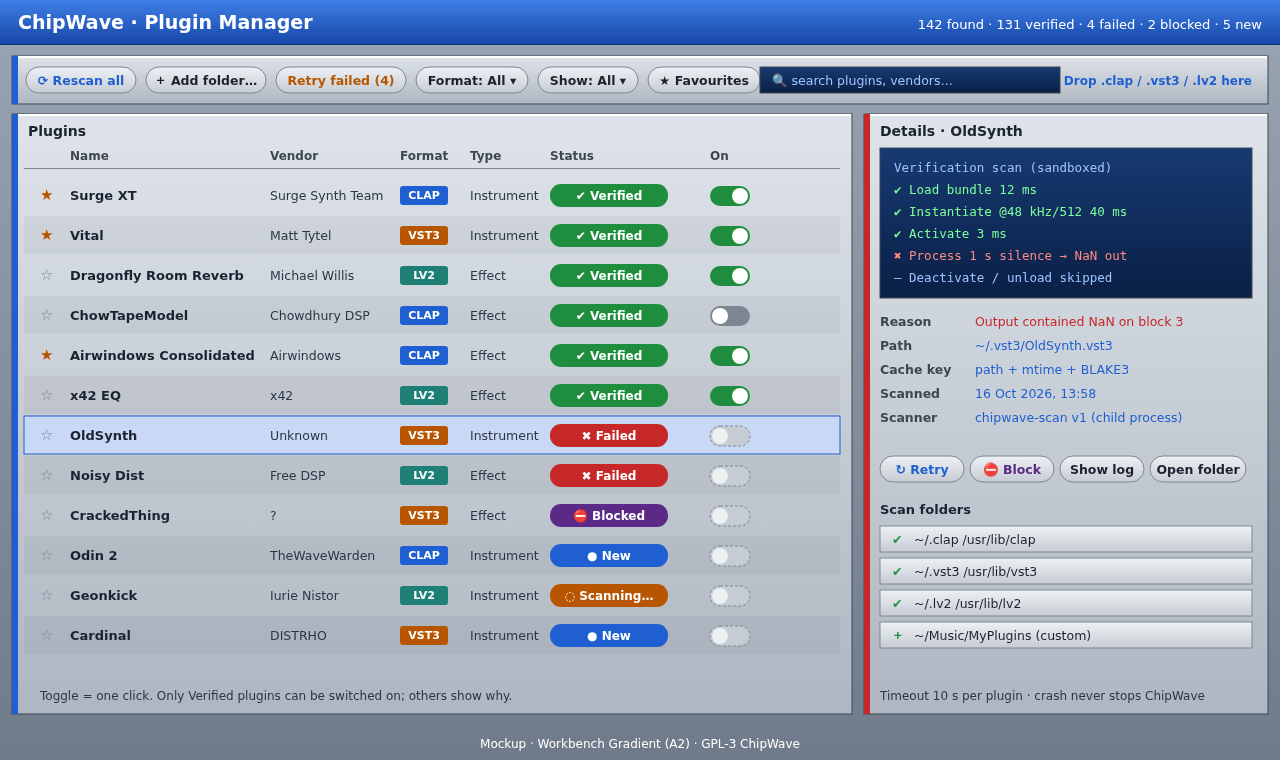
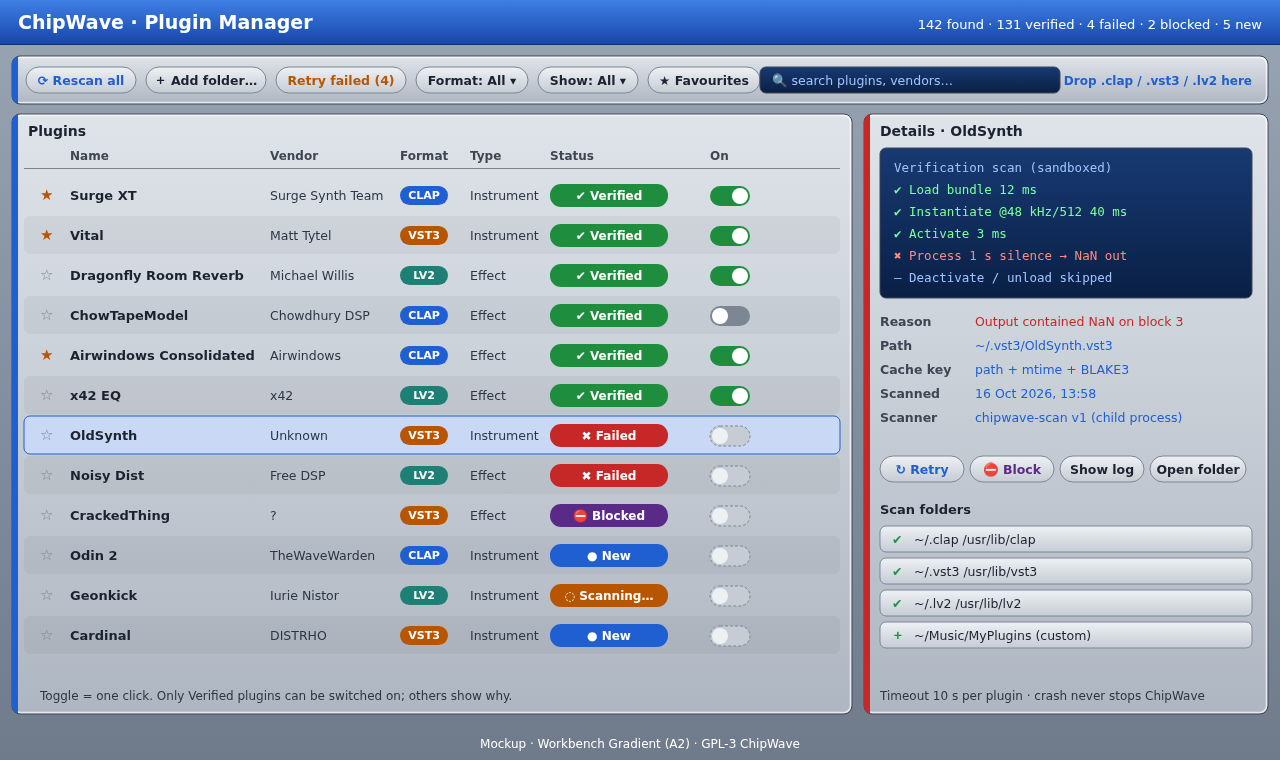
Add Auto Arrange (fill to length) + Fun & Fast design with mockup; corner-radius rules; rounded plugin manager mockup

Changed region(s): [[0.9688, 0.1211, 1.0, 0.1513]]

diff --git a/docs/AUTO_ARRANGE.md b/docs/AUTO_ARRANGE.md
@@ -1,0 +1,116 @@
+# Auto Arrange: Fill to length, plus Fun & Fast
+
+Del's ask: *"fun to use, easy to get results out quick into a working track… if the user has created an intro, a chorus etc, an option to fill to a certain time length with some music computational variations."*
+
+![Auto arrange mockup](mockups/auto_arrange.png) (SVG: [`mockups/auto_arrange.svg`](mockups/auto_arrange.svg))
+
+Builds on the arranger data model in [ARRANGER.md](ARRANGER.md): blocks → play sequences → section list. Auto Arrange only *proposes* a new section list plus derived blocks; nothing is changed until you press Accept.
+
+## 1. Workflow
+1. **Tag blocks with roles:** Intro, Verse, Chorus, Bridge, Breakdown, Outro or Fill. Right-click a block, or press `1`–`7` in the arranger. Untagged blocks are ignored. One role can hold several blocks (Chorus A/B).
+2. **Pick a target length** (e.g. 3:30) and a **snap** setting (1 / 4 / 8 / 16 bars). Bar length is computed from BPM, speed and lines-per-beat (`bar_secs = beats_per_bar × 60 / bpm`). The generator works in whole bars and reports the real result, e.g. *3:29.1 (122 bars)*. Tempo changes inside blocks are handled by the same pre-scan the ruler uses.
+3. **Pick a style template:** Pop, Chiptune demo-scene, Club build/drop or Ambient.
+4. Press **Generate**. Ghost blocks appear in the arranger. **▶ Preview** plays them, **🎲 Reroll** tries a new seed, **🔒 Lock** keeps a section on reroll, and **Accept** or **Undo** commits or discards the proposal (one undo step).
+
+## 2. Style templates
+A template is a small TOML grammar plus a default energy curve, user-editable in `~/.config/chipwave/arrange/`.
+
+| Style | Skeleton | Typical lengths | Variations favoured |
+|---|---|---|---|
+| Pop | I V C V C B C C O | 4–8 bar intro, 16-bar verse/chorus | Key change before final chorus, drum fill, thin verse 2 |
+| Chiptune demo-scene | I V C V′ C′ B F C+ O | 8-bar units | Arpeggio variants, echo via tracker effects, octave shift, fast fills |
+| Club build/drop | I Bd(build) C(drop) Bk V Bd C O | 16/32 bars | Filter sweep, density increase into the drop, mute kick in the breakdown |
+| Ambient | I V B V′ O, long repeats | 16–32 bars | Density reduce, slow filter, ritardando outro |
+
+```toml
+# pop.toml
+[grammar]
+start = ["Intro"]
+next.Intro   = [["Verse", 1.0]]
+next.Verse   = [["Chorus", 0.8], ["Verse", 0.2]]
+next.Chorus  = [["Verse", 0.5], ["Bridge", 0.3], ["Outro", 0.2]]
+next.Bridge  = [["Chorus", 1.0]]
+end = ["Outro"]
+max_repeat = 2
+energy = [[0.0,0.2],[0.3,0.6],[0.5,0.5],[0.75,1.0],[1.0,0.1]]
+```
+
+If a role is missing (no Bridge tagged, say), the generator skips it or makes a derived stand-in (a thinned Verse) and says so in the result panel.
+
+## 3. Generator (deterministic and seeded)
+Same blocks + settings + seed always give the same result. It uses a `rand_chacha::ChaCha8Rng` seeded from the 64-bit seed shown in the UI.
+
+```text
+fn fill_to_length(blocks, template, target_bars, energy, seed, locks):
+    rng = ChaCha8(seed)
+    best = None
+    repeat N=200 candidates:
+        path = walk template grammar from start, weighted by rng, keeping locked sections fixed
+        lengths = for each section: base bars of its tagged block(s)
+        # fit: adjust repeats/trims until total == target (within snap)
+        while total(path) < target: grow the section with the highest (energy-fit gain / bars), repeat ≤ max_repeat, else insert a Fill or an extra Verse→Chorus pair
+        while total(path) > target: shrink: drop a repeat, then trim to half length (only if the block length divides), then remove the optional Bridge
+        score = |total-target| * 10 + energy_mismatch(path, energy) + monotony_penalty(path) + template_deviation(path)
+        keep best by score
+    assign variations to best (§4) driven by energy delta and rng
+    return Proposal { sections, derived_blocks }
+```
+
+- **Structure graph:** the grammar is a weighted Markov graph over roles. Locks are fixed nodes the walk must pass through in place.
+- **Fitting by repeats:** exact length comes from repeat counts and Fill blocks (1, 2 or 4 bars) as padding. If no exact fit exists at the chosen snap, it picks the nearest result and shows the difference (e.g. "−0.9 s").
+- Cost: 200 candidates × ~20 sections is microseconds, so preview is instant and runs off the audio thread.
+
+## 4. Variation transforms (non-destructive)
+A **derived block** stores `source: BlockId` plus an ordered list of transforms. It's rendered to real pattern data on demand and cached. Edit the source and every variant updates. Accept keeps them as derived blocks; "Bake" turns one into an ordinary block. MMD export always bakes them.
+
+```rust
+struct DerivedBlock { source: BlockId, ops: Vec<VarOp>, seed: u64 }
+enum VarOp {
+    Transpose(i8), OctaveShift { channels: ChanMask, oct: i8 },
+    DrumFillLastBar { channel: u8, density: f32 }, MuteChannels(ChanMask), ThinChannels(ChanMask, f32),
+    Arpeggiate { channel: u8, pattern: ArpShape }, ChordInvert { channels: ChanMask, steps: i8 },
+    Swing(f32), Density(f32),  // <1 removes weak-beat notes, >1 adds ghost notes on the scale
+    FilterSweep { from_hz: f32, to_hz: f32, curve: Curve }, // writes synth automation lane
+    EchoFx { channel: u8, delay_lines: u8, feedback: u8 },  // uses tracker volume/delay commands in free channels
+    CallResponse { call: ChanMask, answer: ChanMask },      // copies bar 1–2 phrase to answer channel in bars 3–4, transposed by a scale step
+    KeyChange(i8), FadeOut { bars: u8 }, Ritardando { bars: u8, end_bpm_pct: u8 },
+}
+```
+
+| Transform | How (implementable) | Default use |
+|---|---|---|
+| Transpose / octave shift | Shift note numbers; clamp to the sample's range; skip drum channels (tagged) | Verse 2, final chorus |
+| Drum fill on last bar | Replace the last bar of the drum channel with a template fill (rolls, toms) seeded by rng | Before every Chorus |
+| Mute / thin channels | Clear a channel, or drop notes with probability p (off-beats first) | Intro, breakdown, verse 1 |
+| Arpeggio / chord inversion | Detect chord notes per row across channels; rotate the inversion or emit `0xy` arpeggio commands | Chiptune repeats |
+| Swing | Delay odd 16ths via delay command `Fxx`/note-delay | Style-dependent |
+| Density ± | Remove weak-beat notes or add passing notes from the detected scale (simple Krumhansl key profile) | Builds and ambient |
+| Filter sweep | Automation lane on the synth cutoff, start→end over the block | Club builds |
+| Tracker echo | Echo note copies at lower volume in a free channel, N rows later | Demo-scene |
+| Call and response | Copy the phrase from channel A to channel B a bar later, shifted by a scale degree | Bridge |
+| Key change | +1 or +2 semitones from the block before the final chorus to the end | Pop |
+| Outro fade / ritardando | Volume ramp over the last N bars; tempo commands lowering BPM by up to 20 % | Outro |
+
+Variation intensity scales with the **Variation %** knob. Transforms are chosen where the energy curve rises (add density/fills/sweeps) or falls (thin/mute/fade).
+
+## 5. Energy curve UI
+- A CRT display with draggable square handles (A2 style), from 0 to 1 over song time. Double-click adds a point; right-click removes it.
+- Each style has a default curve. Dragging re-scores live (debounced 100 ms) and updates the ghost blocks.
+- Section energy is estimated from note density, active channels and average volume, so the generator can match sections to the curve.
+
+## 6. Arranger integration
+- **Ghost blocks:** translucent fill with a dashed outline; derived ones are labelled *derived* with a ′ mark. Hovering shows the transform list.
+- **Time display:** live total versus target in the header, plus a time ruler.
+- **Live preview:** loops the ghost song from the cursor. Click a ghost block to audition just that one.
+- Keys: `G` generate, `R` reroll, `L` lock, `Enter` accept, `Esc` / `Ctrl+Z` undo.
+
+## 7. Fun & fast
+- **Quick-start templates:** File → New from template (Chiptune, Pop, Club, Ambient, Amiga MOD 4-channel). Each comes with a tempo, instrument slots filled from the bundled sample pack, a drum block and an empty tagged Verse/Chorus.
+- **First track in 5 minutes:** a skippable onboarding overlay. (1) Pick a template. (2) Type a melody in the Chorus block (keyboard as piano, step highlighted). (3) Press 🎲 for a bass line from the chord guess. (4) Fill to length 2:30. (5) Export. Progress dots, no account, never pops up again once dismissed.
+- **Randomise patch:** 🎲 on the sound designer randomises within musical limits (cutoff 200 Hz–8 kHz, envelope sane, levels capped) and keeps a history so you can step back.
+- **Happy-accident dice:** in any block, randomly applies one transform from §4 to the selection (also seeded and undoable), e.g. "inverted chords on ch 2".
+- **Instant export:** `Ctrl+E` renders WAV/MP3 with the last settings ([EXPORT.md](EXPORT.md)) and shows the file in a toast with "Open folder".
+
+## 8. Roadmap
+- **Phase 2:** roles, generator, Pop/Chiptune templates, transforms Transpose/Fill/Mute/Thin/KeyChange/Fade, ghost preview and accept/undo, quick-start templates, instant export.
+- **Phase 2.5:** energy curve editing, the remaining transforms, Club/Ambient templates, onboarding, dice.

diff --git a/README.md b/README.md
@@ -24,7 +24,7 @@ A modern music tracker inspired by **OctaMED** and the Commodore **Amiga**, sist
 3. **Phase 2:** OctaMED synth and hybrid sounds, more filter models and FX, wavetables, full mod matrix, sample editor, MIDI output + clock sync, CLAP/VST3 plugin hosting, MOD/XM export, Amiga-mode retro look
 4. **Phase 3:** Rhai scripting/plugins, XM/IT import, arranger variation lanes, ChipWave itself as a CLAP/VST3 plugin (nih-plug)
 
-See [docs/OCTAMED_SPEC.md](docs/OCTAMED_SPEC.md) for the full OctaMED feature blueprint, [docs/SOUND_DESIGN.md](docs/SOUND_DESIGN.md) for the synth and effects, [docs/ARRANGER.md](docs/ARRANGER.md) for the timeline, [docs/EXPORT.md](docs/EXPORT.md) for WAV/MP3 export, [docs/FILE_FORMAT.md](docs/FILE_FORMAT.md) for the `.cwt` song format, and [docs/UI_SCALING.md](docs/UI_SCALING.md) for screen scaling and layouts, [docs/SAMPLES.md](docs/SAMPLES.md) for the instrument list and importer, [docs/MIDI_VST.md](docs/MIDI_VST.md) for MIDI and plugins, [docs/PLUGIN_MANAGER.md](docs/PLUGIN_MANAGER.md) for the plugin manager (scan, verify, activate), and [docs/DESIGN_LANGUAGE.md](docs/DESIGN_LANGUAGE.md) for ChipWave's "Wave Cartridge" visual identity.
+See [docs/OCTAMED_SPEC.md](docs/OCTAMED_SPEC.md) for the full OctaMED feature blueprint, [docs/SOUND_DESIGN.md](docs/SOUND_DESIGN.md) for the synth and effects, [docs/ARRANGER.md](docs/ARRANGER.md) for the timeline, [docs/AUTO_ARRANGE.md](docs/AUTO_ARRANGE.md) for fill-to-length auto arrange and quick-start fun features, [docs/EXPORT.md](docs/EXPORT.md) for WAV/MP3 export, [docs/FILE_FORMAT.md](docs/FILE_FORMAT.md) for the `.cwt` song format, and [docs/UI_SCALING.md](docs/UI_SCALING.md) for screen scaling and layouts, [docs/SAMPLES.md](docs/SAMPLES.md) for the instrument list and importer, [docs/MIDI_VST.md](docs/MIDI_VST.md) for MIDI and plugins, [docs/PLUGIN_MANAGER.md](docs/PLUGIN_MANAGER.md) for the plugin manager (scan, verify, activate), and [docs/DESIGN_LANGUAGE.md](docs/DESIGN_LANGUAGE.md) for ChipWave's "Wave Cartridge" visual identity.
 
 ![Sound designer mockup](docs/mockups/sound_designer.png)
 ![FX chain mockup](docs/mockups/fx_chain.png)

diff --git a/docs/DESIGN_LANGUAGE.md b/docs/DESIGN_LANGUAGE.md
@@ -74,6 +74,20 @@ Del liked variant A. Variant **A2** adds soft gradients to it: [`mockups/variant
 - **Readability:** yellow (`#FFD400`) is used only on dark display surfaces. On light panels, values use blue `#1F5FD1` or orange `#FF7A00`. (The A/A2 mockups still show the Out value in yellow on grey; that will be fixed in the implementation.)
 - **egui:** egui has no gradient fill for rects, so gradients are drawn as a `Mesh` with per-vertex colours (top two vertices light, bottom two dark). That's cheap and stays crisp at any scale. Rounded or cut corners use a tessellated path with vertex colours interpolated by y.
 
+### Corner radius (modern rounded look)
+Del asked for a more modern touch, so all surfaces get rounded corners. Values are in logical points and scale with `pixels_per_point`, like everything else ([UI_SCALING.md](UI_SCALING.md)).
+| Element | Radius |
+|---|---|
+| Windows / dialogs / top-level panels | 10 |
+| Cartridges | 8 (the spine is clipped to the same radius) |
+| Buttons, pills, toggles, search fields | fully rounded (height ÷ 2); square tool buttons 6 |
+| Status badges and format tags | pill-shaped (height ÷ 2) |
+| CRT displays (inset) | 6, with the inset bevel following the curve |
+| List row highlights, arranger blocks | 6 |
+| Knob wells | circles; slider thumbs 4 |
+- Data marks (curve handles, LEDs, pixel-grid sweeps) stay square on purpose; that's part of the Wave Cartridge identity.
+- **egui:** set `Visuals.window_corner_radius`, `widgets.*.corner_radius` and `menu_corner_radius` via `CornerRadius::same(n)` (the type was called `Rounding` before egui 0.31). Painter rects take a `CornerRadius` directly. Gradient meshes with rounded corners use the tessellated-path approach above.
+
 ## 4. Component spec (for egui)
 **Cartridge**
 - Body `panel`, 1.5 px `edge` outline, square corners except a 14 px 45° cut at top-left.

diff --git a/docs/ARRANGER.md b/docs/ARRANGER.md
@@ -108,3 +108,6 @@ A second lane lets you lay an alternative block under a clip (e.g. drum fill) an
 - The MVP needs some way to order blocks to prove sequence playback and MMD round-trips. A plain list editor (like OctaMED's) is a few hours of work and directly mirrors the file format.
 - The arranger is a richer *view* over exactly that data. Building it right after the MVP means the data model and playback are proven first, and the arranger can't introduce format bugs.
 - It's high-impact for how the app feels, so it shouldn't wait for phase 2.
+
+## 8. Auto arrange
+Fill-to-length with roles, style templates, a seeded generator and non-destructive variations: see [AUTO_ARRANGE.md](AUTO_ARRANGE.md).
